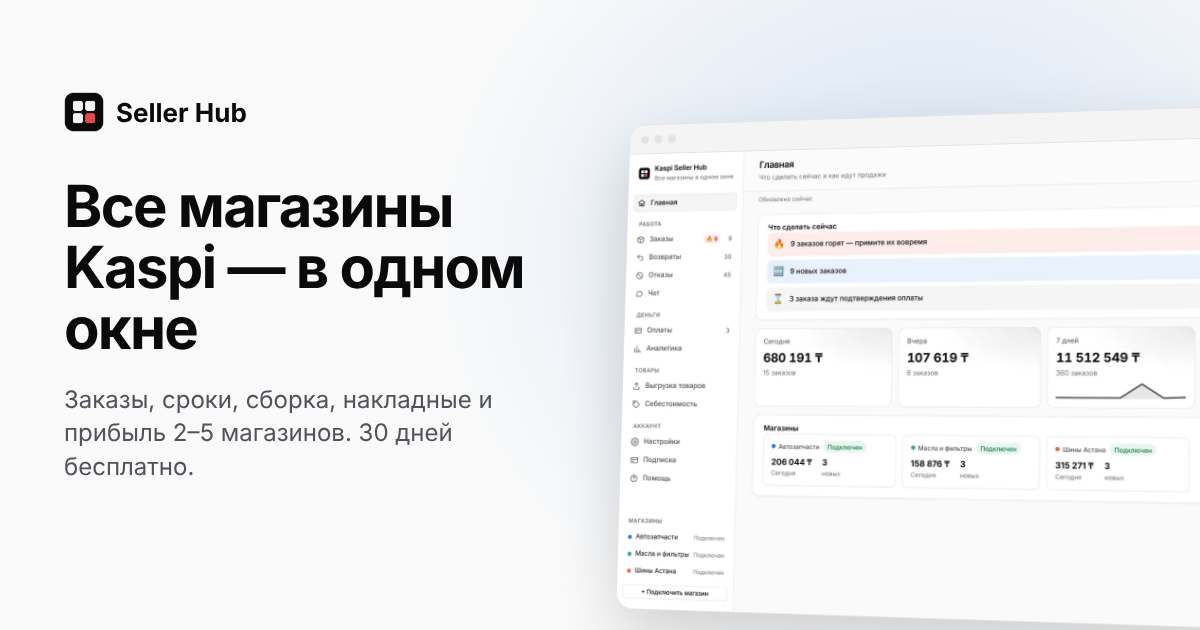
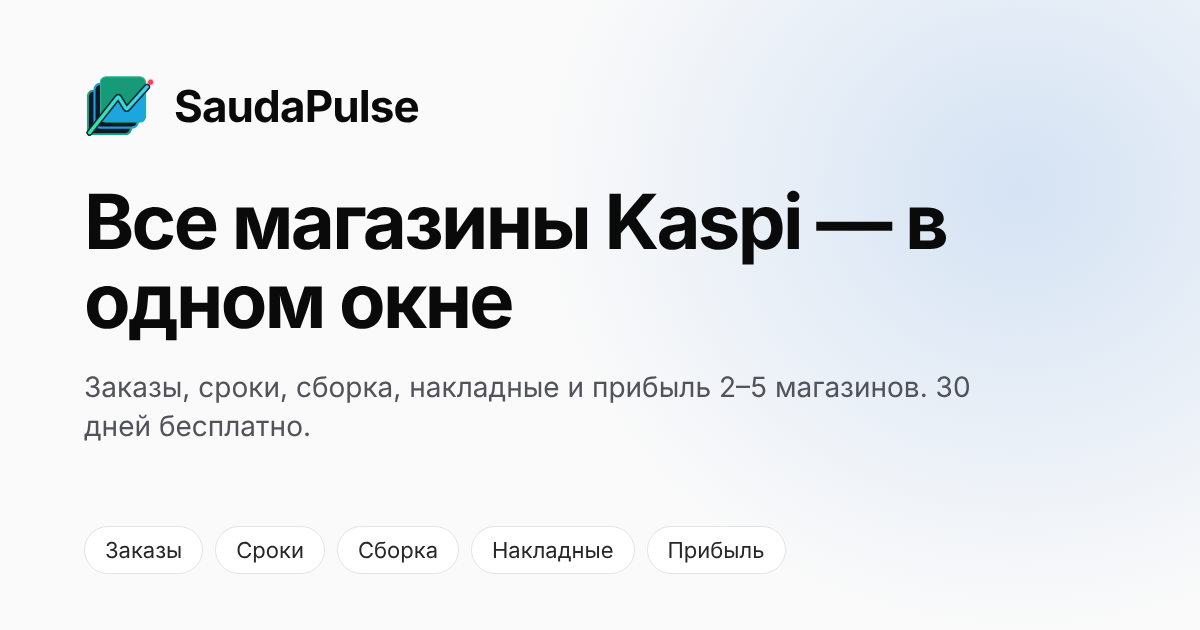
chore(release): narrow kaspi host permissions, harden bot webhook and build final CWS zip
Claude-Session: https://claude.ai/code/session_015bYoYfXCg9pPFA5Y1dGLUg

diff --git a/kaspi-seller-hub/tools/site-shots/og.js b/kaspi-seller-hub/tools/site-shots/og.js
@@ -8,20 +8,19 @@ const data = (f, type) => `data:${type};base64,${require('fs').readFileSync(path
   const p = await b.newPage({ viewport: { width: 1200, height: 630 }, deviceScaleFactor: 1 });
   await p.setContent(`<!doctype html><html><head><style>
     body{margin:0;width:1200px;height:630px;overflow:hidden;font-family:Inter,sans-serif;background:#fafafa;color:#0a0a0a;position:relative}
-    .glow{position:absolute;inset:-30% -20% auto 35%;height:140%;background:radial-gradient(closest-side,rgba(42,120,214,.18),transparent)}
-    .t{position:absolute;left:64px;top:92px;width:470px}
-    .logo{display:flex;align-items:center;gap:12px;font-weight:700;font-size:26px}
-    .logo img{width:40px;height:40px;border-radius:9px}
-    h1{margin:44px 0 0;font-size:58px;line-height:1.05;letter-spacing:-.03em}
-    p{margin:24px 0 0;font-size:24px;line-height:1.4;color:#52525b}
-    .f{position:absolute;left:600px;top:110px;width:760px;border-radius:18px;overflow:hidden;border:1px solid #e4e4e7;background:#fff;box-shadow:0 30px 70px rgba(0,0,0,.16);transform:perspective(1400px) rotateY(-10deg) rotateX(4deg)}
-    .bar{height:30px;background:#f4f4f5;border-bottom:1px solid #e4e4e7;display:flex;gap:6px;align-items:center;padding:0 12px}.bar i{width:9px;height:9px;border-radius:50%;background:#e4e4e7}
-    .f img{display:block;width:100%}
+    .glow{position:absolute;inset:-40% -25% auto 45%;height:140%;background:radial-gradient(closest-side,rgba(42,120,214,.18),transparent)}
+    .t{position:absolute;left:84px;top:70px;width:1000px}
+    .logo{display:flex;align-items:center;gap:18px;font-weight:700;font-size:44px;letter-spacing:-.02em}
+    .logo img{width:72px;height:72px;border-radius:16px}
+    h1{margin:40px 0 0;font-size:76px;line-height:1.04;letter-spacing:-.035em}
+    p{margin:28px 0 0;font-size:28px;line-height:1.4;color:#52525b;width:900px}
+    .chips{position:absolute;left:84px;bottom:56px;display:flex;gap:12px}
+    .chips span{padding:10px 20px;border-radius:999px;background:#fff;border:1px solid #e4e4e7;font-size:22px;color:#27272a}
   </style></head><body><div class="glow"></div>
     <div class="t"><div class="logo"><img src="${data('icon-128.png', 'image/png')}">SaudaPulse</div>
     <h1>Все магазины Kaspi — в одном окне</h1>
     <p>Заказы, сроки, сборка, накладные и прибыль 2–5 магазинов. 30 дней бесплатно.</p></div>
-    <div class="f"><div class="bar"><i></i><i></i><i></i></div><img src="${data('home.webp', 'image/webp')}"></div>
+    <div class="chips"><span>Заказы</span><span>Сроки</span><span>Сборка</span><span>Накладные</span><span>Прибыль</span></div>
   </body></html>`, { waitUntil: 'load' });
   await p.screenshot({ path: path.join(A, 'og.png') });
   await b.close();

diff --git a/kaspi-seller-hub/background/kaspi-api.js b/kaspi-seller-hub/background/kaspi-api.js
@@ -1,5 +1,5 @@
 /**
- * Kaspi Seller Hub — client for the official Kaspi Shop API (JSON:API).
+ * SaudaPulse — client for the official Kaspi Shop API (JSON:API).
  *
  * One token per store (cabinet › Настройки › Токен API). Used only by the service
  * worker; tokens never reach extension pages. Endpoints and formats follow
@@ -96,6 +96,8 @@ function retryAfter(res, fallback) {
 export async function apiRequest(token, pathOrUrl, { method = 'GET', params, body, accept = 'application/vnd.api+json', contentType = 'application/vnd.api+json' } = {}) {
   const url = new URL(/^https?:/.test(pathOrUrl) ? pathOrUrl : A().base + pathOrUrl);
   Object.entries(params || {}).forEach(([k, v]) => url.searchParams.set(k, String(v)));
+  // The token goes only to kaspi.kz: a `links.related` URL from a response must not be able to redirect it elsewhere.
+  if (url.origin !== 'https://kaspi.kz') throw new ApiError('badUrl', 0);
   // «Только чтение» (settings.readOnly, set by the worker): only reads ever leave the extension.
   // Last line of defence: the worker also refuses the actions before they get here.
   if (method !== 'GET' && globalThis.KSH_READONLY) throw new ApiError('readOnly', 0);

diff --git a/kaspi-seller-hub/billing/admin/admin.js b/kaspi-seller-hub/billing/admin/admin.js
@@ -544,7 +544,7 @@
     const box = el('div', { 'data-block': 'bot-settings' }, el('h2', { style: 'margin-top:24px' }, 'Telegram-бот для продавцов'), el('p', { class: 'muted' }, 'Загрузка…'));
     rpc('admin_growth_settings', { p: {} }).then((g) => {
       const f = {
-        bot_username: el('input', { class: 'input', placeholder: 'SellerHubBot', value: g.bot_username || '' }),
+        bot_username: el('input', { class: 'input', placeholder: 'SaudaPulse_bot', value: g.bot_username || '' }),
         app_url: el('input', { class: 'input', placeholder: 'https://ваш-сайт.kz', value: g.app_url || '' }),
         support_url: el('input', { class: 'input', placeholder: 'https://t.me/ваш_менеджер', value: g.support_url || '' }),
         whats_new: el('textarea', { placeholder: 'Что нового за месяц — уйдёт клиентам через 30 дней после отмены' }, g.whats_new || ''),

diff --git a/kaspi-seller-hub/background/service-worker.js b/kaspi-seller-hub/background/service-worker.js
@@ -1,5 +1,5 @@
 /**
- * Kaspi Seller Hub — background service worker (MV3, ES module).
+ * SaudaPulse — background service worker (MV3, ES module).
  *
  *  - Tab registry: which open Kaspi tab belongs to which store (chrome.storage.session,
  *    because the worker itself can be stopped at any time).
@@ -1430,7 +1430,7 @@ chrome.runtime.onMessage.addListener((msg, sender, sendResponse) => {
 });
 
 chrome.tabs.onRemoved.addListener((tabId) => unregisterTab(tabId));
-/** Chrome match pattern → RegExp ("https://*.kaspi.kz/*" also matches kaspi.kz itself). */
+/** Chrome match pattern → RegExp (a leading "*." also matches the bare domain; current patterns are exact hosts). */
 const patternToRegExp = (p) => {
   const [, scheme, host, path] = p.match(/^(\w+):\/\/([^/]*)(\/.*)$/); // host is empty for file:///
   const esc = (x) => x.replace(/[.+?^${}()|[\]\\]/g, '\\$&');

diff --git a/kaspi-seller-hub/billing/supabase/functions/telegram-bot/bot.js b/kaspi-seller-hub/billing/supabase/functions/telegram-bot/bot.js
@@ -197,8 +197,13 @@ export async function handle(req, env, f = fetch) {
   try {
     if (path.endsWith('/webhook')) {
       if (!sameSecret(req.headers.get('x-telegram-bot-api-secret-token'), env.WEBHOOK_SECRET)) return json({ error: 'forbidden' }, 401);
-      await webhook(await req.json(), env, f);
-      return json({ ok: true }); // always 200: Telegram would resend the update otherwise
+      // After the secret check always answer 200: Telegram would resend (and retry forever) the update otherwise.
+      try {
+        await webhook(await req.json(), env, f);
+      } catch (e) {
+        console.error('[telegram-bot] webhook update dropped:', String(e?.message || e).slice(0, 200));
+      }
+      return json({ ok: true });
     }
     if (path.endsWith('/alert')) {
       const token = (req.headers.get('authorization') || '').replace(/^Bearer\s+/i, '');

diff --git a/kaspi-seller-hub/shared/selectors.js b/kaspi-seller-hub/shared/selectors.js
@@ -1,5 +1,5 @@
 /**
- * Kaspi Seller Hub — DOM selector registry.
+ * SaudaPulse — DOM selector registry.
  *
  * THE ONLY FILE YOU SHOULD NEED TO TOUCH WHEN KASPI CHANGES ITS LAYOUT.
  *
@@ -34,7 +34,7 @@
     // "http://localhost/*" = DEMO mode (demo/ folder, see README). Remove it here and in
     // manifest.json before publishing the extension.
     // "file:///*/mc/store-*" = DEMO pages opened by double-click (demo/mc/store-*.html).
-    tabMatchPatterns: ['https://kaspi.kz/mc/*', 'https://*.kaspi.kz/*', 'http://localhost/*', 'file:///*/mc/store-*'],
+    tabMatchPatterns: ['https://kaspi.kz/*', 'https://mc.shop.kaspi.kz/*', 'https://idmc.shop.kaspi.kz/*', 'http://localhost/*', 'file:///*/mc/store-*'],
 
     /** Page detection — substrings matched against location.href (first hit wins). */
     pages: {

diff --git a/kaspi-seller-hub/shared/tokens.css b/kaspi-seller-hub/shared/tokens.css
@@ -15,7 +15,7 @@
 @font-face { font-family: "JetBrains Mono"; font-style: normal; font-weight: 400 700; font-display: swap; src: url("../fonts/jetbrains-mono-latin-500-normal.woff2") format("woff2"); unicode-range: U+0000-00FF,U+0131,U+0152-0153,U+02BB-02BC,U+02C6,U+02DA,U+02DC,U+0304,U+0308,U+0329,U+2000-206F,U+2074,U+20AC,U+2122,U+2191,U+2193,U+2212,U+2215,U+FEFF,U+FFFD; }
 
 /*
- * Kaspi Seller Hub — design tokens shared by popup, dashboard and print.
+ * SaudaPulse — design tokens shared by popup, dashboard and print.
  * Dark is the default (SaudaPulse brand palette). Light applies only when the OS
  * is set to light and the user has not picked a theme, or when
  * html[data-theme="light"] is set in Settings.

diff --git a/kaspi-seller-hub/dashboard/dashboard.js b/kaspi-seller-hub/dashboard/dashboard.js
@@ -1,5 +1,5 @@
 /**
- * Kaspi Seller Hub — dashboard (Screen 2).
+ * SaudaPulse — dashboard (Screen 2).
  *
  * Routes (location.hash): orders · returns · refusals · payments · analytics · chat · settings
  * Data comes from the service worker (ui:* messages) and chrome.storage; nothing
@@ -1949,7 +1949,7 @@ function renderSidebar() {
 }
 
 /** Per-store "unavailable" banners — never block the other stores. */
-const KASPI_ORIGINS = ['https://kaspi.kz/*', 'https://*.kaspi.kz/*'];
+const KASPI_ORIGINS = ['https://kaspi.kz/*', 'https://mc.shop.kaspi.kz/*', 'https://idmc.shop.kaspi.kz/*'];
 
 function renderBanners() {
   const box = clear($('banners'));

diff --git a/kaspi-seller-hub/dashboard/growth-view.js b/kaspi-seller-hub/dashboard/growth-view.js
@@ -1,5 +1,5 @@
 /**
- * Kaspi Seller Hub — plans and retention in the dashboard:
+ * SaudaPulse — plans and retention in the dashboard:
  *   storeMeter      «Магазин: Все (1/1)  + Добавить магазин» in the top bar
  *   openUpsell      soft paywall on «Старт»: +8 000 ₸/мес for 3 stores, 24 hours free, upgrade now
  *   openCancelFlow  «Отменить подписку»: reason → offer (30 % / «Старт» / freeze / feedback) → cancel

diff --git a/kaspi-seller-hub/dashboard/feedback-view.js b/kaspi-seller-hub/dashboard/feedback-view.js
@@ -1,5 +1,5 @@
 /**
- * Kaspi Seller Hub — short surveys for the owner's control panel.
+ * SaudaPulse — short surveys for the owner's control panel.
  *  - NPS: «Насколько вероятно, что вы порекомендуете …» 0–10 + one open question. A card on Home,
  *    never a blocking window; the server decides when (after 14 days, then every 90 days).
  *  - «Почему не продлеваете?»: when the trial or subscription has ended.

diff --git a/kaspi-seller-hub/dashboard/support-view.js b/kaspi-seller-hub/dashboard/support-view.js
@@ -1,5 +1,5 @@
 /**
- * Kaspi Seller Hub — support inside the extension: the owner's service notice (banner on every
+ * SaudaPulse — support inside the extension: the owner's service notice (banner on every
  * page), «Написать в поддержку» with the technical report attached, «Мои вопросы» with answers.
  * The seller never has to explain the version, browser or what failed — it is in the report.
  */

diff --git a/kaspi-seller-hub/dashboard/staff-view.js b/kaspi-seller-hub/dashboard/staff-view.js
@@ -1,5 +1,5 @@
 /**
- * Kaspi Seller Hub — staff: sign-in screen of a «Компьютер склада», the packer panel
+ * SaudaPulse — staff: sign-in screen of a «Компьютер склада», the packer panel
  * («сканируй и проверяй», the model of ShipStation Scan-to-Verify / pack stations), and the
  * owner's cards «Сотрудники» and «Компьютер склада».
  *
